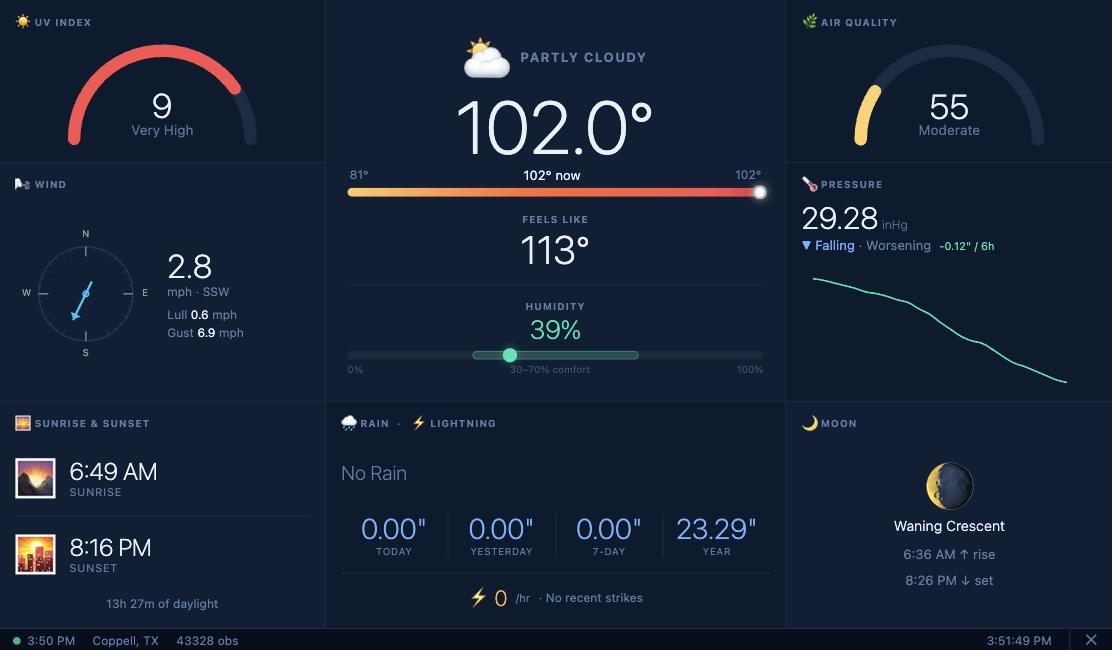
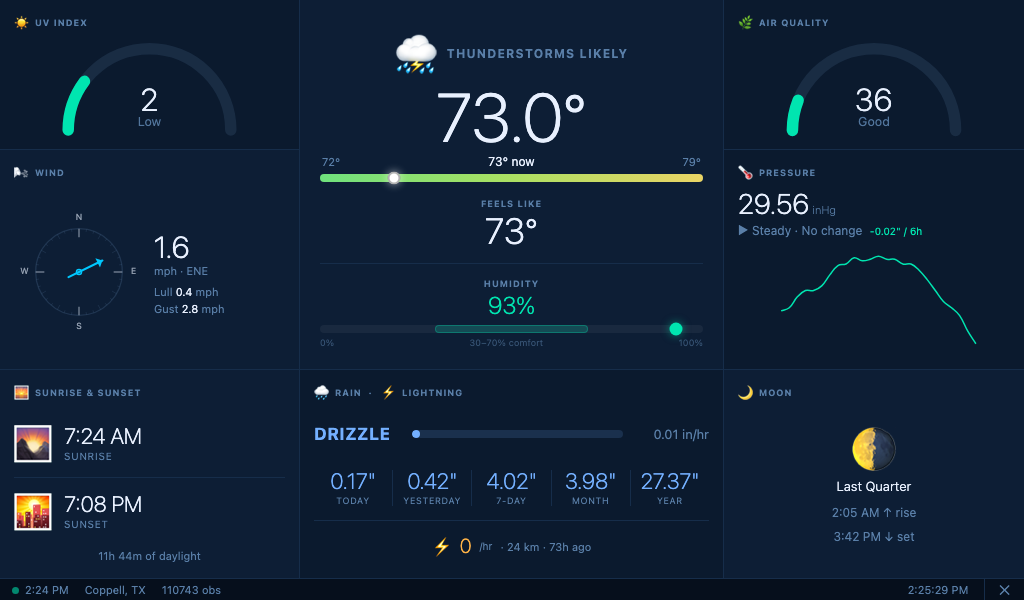
docs: refresh README dashboard screenshot and rain totals
Replace the dashboard screenshot with a current 1024x600 render. Update the
rain references to include the month-to-date total.

diff --git a/README.md b/README.md
@@ -25,7 +25,7 @@ The dashboard fills the full 1024×600 display as a 3×3 grid (300px / 424px / 3
 ├───────────────┼─────────────────────────┼───────────────┤
 │  SUNRISE &    │   RAIN · LIGHTNING      │     MOON      │
 │    SUNSET     │  intensity meter,       │  phase, rise/ │
-│  + day length │  today/yesterday/7d/yr  │  set times    │
+│  + day length │  today/yest/7d/mo/yr    │  set times    │
 ├───────────────┴─────────────────────────┴───────────────┤
 │  ● Updated 14:46   Coppell, TX   43,021 obs             │
 └─────────────────────────────────────────────────────────┘
@@ -83,7 +83,7 @@ WeatherFlow Hub
 │  GET /api/history/temperature?hours=12                  │
 │  GET /api/history/wind?hours=12                         │
 │  GET /api/history/rain           today/yesterday/       │
-│                                   7-day/year totals     │
+│                                   7-day/month/year      │
 │  GET /api/history/pressure?hours=12                     │
 │  GET /api/history/solar                                 │
 │  GET /api/history/lightning?hours=24                    │
@@ -128,7 +128,7 @@ WeatherFlow Hub
 | Feels Like | NWS heat index (≥80°F) or wind chill (≤50°F, wind ≥3mph) |
 | Dew Point | Magnus formula from temperature + relative humidity |
 | Pressure trend | Slope of last 3h of pressure readings (rising/falling/steady) |
-| Rain today/yesterday/7-day/year | Sums of `rain_accumulated`, WeatherFlow stats API with SQLite fallback |
+| Rain today/yesterday/7-day/month/year | Sums of `rain_accumulated`, WeatherFlow stats API with SQLite fallback |
 | Wind cardinal | 16-point compass from degrees |
 | Sunrise/sunset/day length | `ephem` solar ephemeris for station lat/lon |
 
